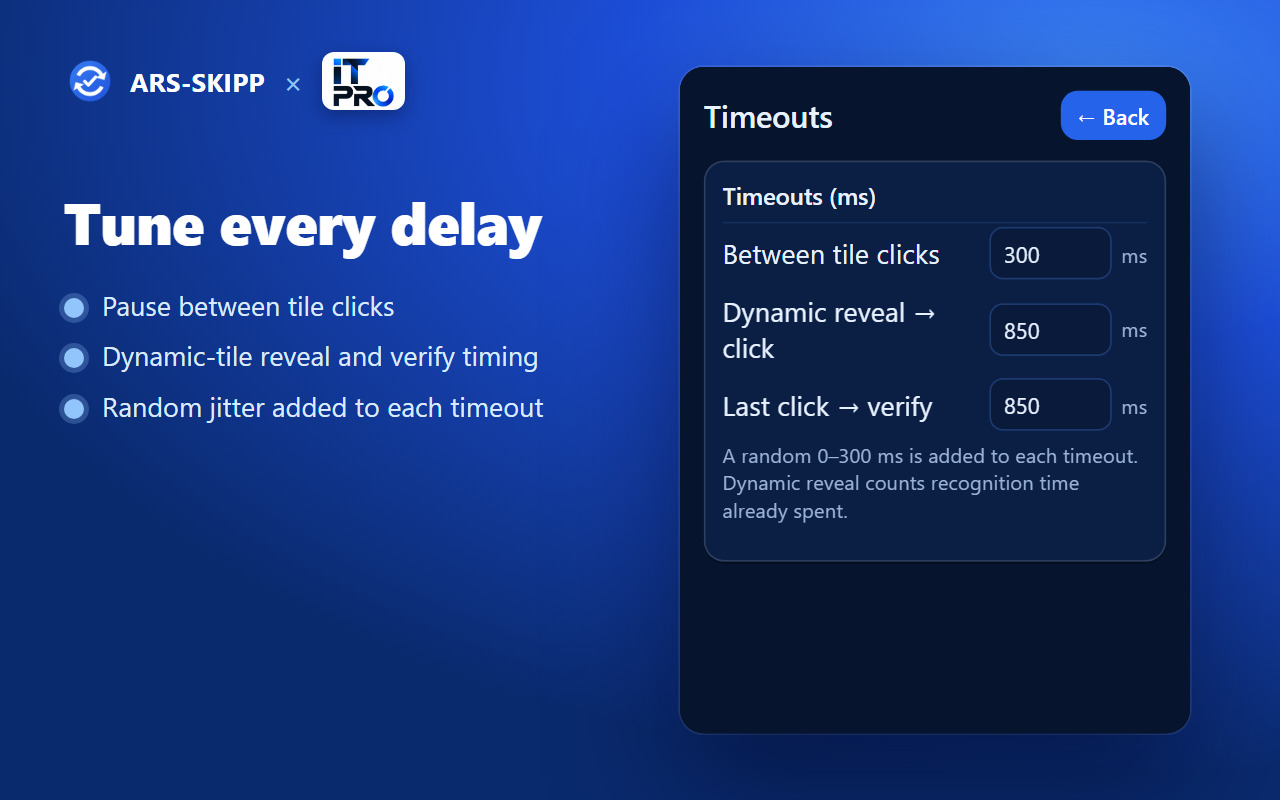
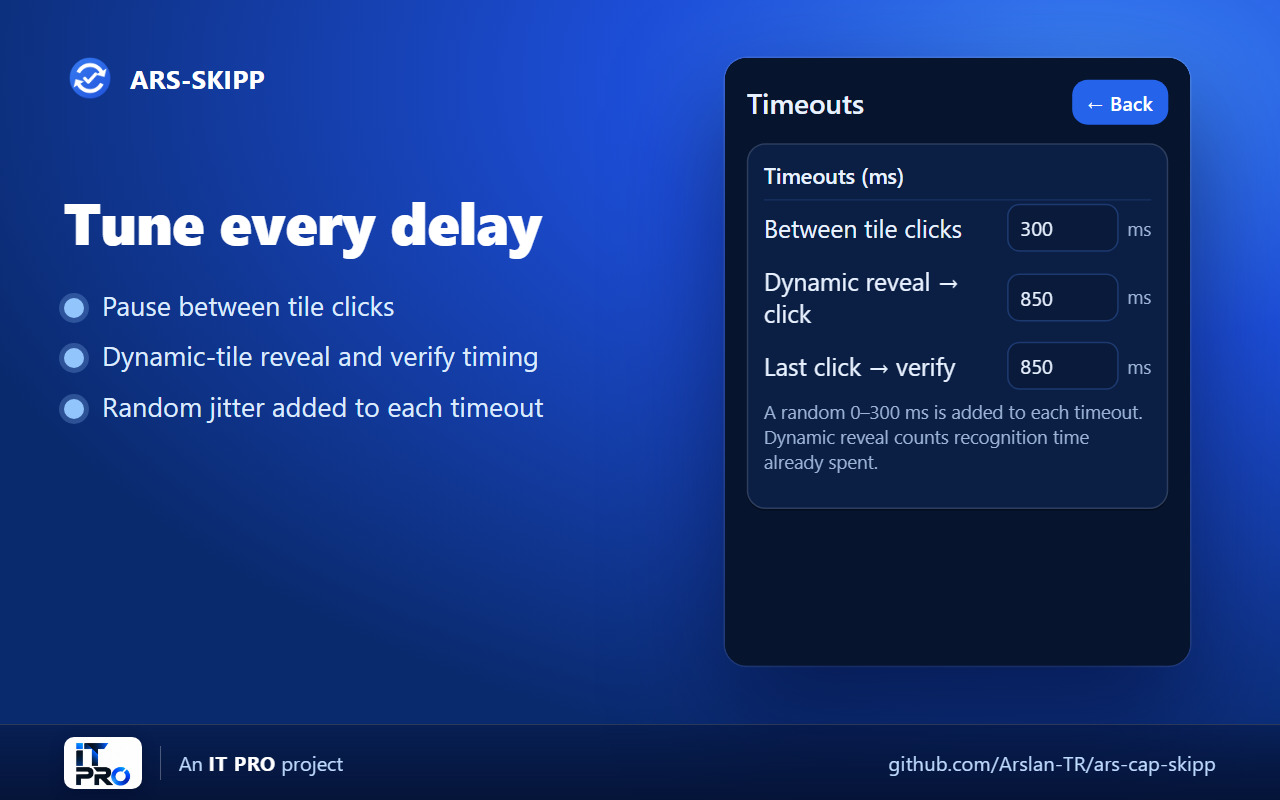
Store visuals: IT PRO brand bar, fix promo tile layout

Changed region(s): [[0.0, 0.0625, 1.0, 1.0], [0.25, 0.0625, 0.3438, 0.1562], [0.0312, 0.0625, 0.2188, 0.125]]

diff --git a/docs/store/src/slide.html b/docs/store/src/slide.html
@@ -10,11 +10,18 @@
   body { background: radial-gradient(1200px 700px at 85% 10%, #3b82f6 0%, #1d4ed8 38%, #0a2a6e 100%); color: #fff; position: relative; }
   .brand { position: absolute; left: 64px; top: 52px; display: flex; align-items: center; gap: 14px; font-weight: 700; font-size: 26px; letter-spacing: .3px; }
   .brand img { width: 52px; height: 52px; }
-  .brand .x { font-weight: 400; color: #93c5fd; font-size: 30px; margin: 0 4px; }
-  .brand .partner { background: #fefefe; border-radius: 12px; padding: 3px 8px; display: flex; box-shadow: 0 6px 18px rgba(2,10,40,.35); }
-  .brand .partner img { width: auto; height: 52px; }
-  .corner { position: absolute; left: 80px; bottom: 36px; background: #fefefe; border-radius: 12px; padding: 4px 10px; display: flex; box-shadow: 0 6px 18px rgba(2,10,40,.35); }
-  .corner img { height: 56px; width: auto; }
+  .bar { position: absolute; left: 0; right: 0; bottom: 0; height: 76px; display: flex; align-items: center; gap: 18px; padding: 0 64px; font-size: 20px; color: #bfdbfe; background: linear-gradient(180deg, rgba(4,12,36,.35), rgba(4,12,36,.72)); border-top: 1px solid rgba(255,255,255,.16); }
+  .bar .chip { background: #fefefe; border-radius: 10px; padding: 3px 9px; display: flex; box-shadow: 0 4px 14px rgba(2,10,40,.35); }
+  .bar .chip img { height: 46px; width: auto; }
+  .bar .sep { width: 1px; height: 34px; background: rgba(255,255,255,.28); }
+  .bar b { color: #fff; letter-spacing: .6px; }
+  .bar .url { margin-left: auto; letter-spacing: .2px; }
+  .bar.wide { height: 68px; padding: 0 80px; }
+  .bar.wide .chip img { height: 42px; }
+  .bar.small { height: 44px; padding: 0 20px; gap: 10px; font-size: 13px; }
+  .bar.small .chip { padding: 2px 6px; border-radius: 7px; }
+  .bar.small .chip img { height: 30px; }
+  .bar.small .sep { height: 22px; }
   .copy { position: absolute; left: 64px; top: 190px; width: 600px; }
   .copy h1 { font-size: 58px; line-height: 1.08; font-weight: 800; letter-spacing: -.5px; }
   .copy ul { list-style: none; padding: 0; margin-top: 34px; }
@@ -27,10 +34,11 @@
   .step .n { width: 56px; height: 56px; border-radius: 50%; background: var(--blue); display: grid; place-items: center; font-size: 28px; font-weight: 800; margin-bottom: 22px; box-shadow: 0 0 0 6px rgba(147,197,253,.25); }
   .step h3 { font-size: 31px; margin-bottom: 12px; }
   .step p { font-size: 23px; line-height: 1.4; color: #dbeafe; }
-  .foot { position: absolute; left: 64px; right: 64px; bottom: 56px; font-size: 25px; color: #bfdbfe; }
+  .foot { position: absolute; left: 64px; right: 64px; bottom: 112px; font-size: 25px; color: #bfdbfe; }
   .center-title { position: absolute; left: 64px; top: 130px; font-size: 54px; font-weight: 800; letter-spacing: -.5px; }
   .promo { position: absolute; inset: 0; display: flex; align-items: center; gap: 20px; padding: 0 28px; }
   .promo img { width: 104px; height: 104px; flex: none; filter: drop-shadow(0 10px 20px rgba(2,10,40,.45)); }
+  .promo > div { flex: 1; min-width: 0; }
   .promo h2 { font-size: 36px; line-height: 1.05; font-weight: 800; letter-spacing: -.3px; }
   .promo p { font-size: 19px; line-height: 1.3; color: #dbeafe; margin-top: 10px; }
   .marq { gap: 50px; padding-left: 80px; }
@@ -45,15 +53,18 @@
   const n = q.get('n');
   // the capture window is taller than the image; pin the layout to the image height
   document.documentElement.style.height = document.body.style.height = (q.get('h') || 800) + 'px';
-  const brand = '<div class="brand"><img src="icon128.png" alt="">ARS-SKIPP<span class="x">&times;</span><span class="partner"><img src="itpro-logo.png" alt="IT PRO"></span></div>';
+  // headless Chrome enforces a minimum window width, so pin the layout width too
+  document.body.style.width = (q.get('w') || 1280) + 'px';
+  const brand = '<div class="brand"><img src="icon128.png" alt="">ARS-SKIPP</div>';
+  const bar = (cls, url) => `<div class="bar ${cls}"><span class="chip"><img src="itpro-logo.png" alt="IT PRO"></span><span class="sep"></span><span>An <b>IT PRO</b> project</span>${url ? '<span class="url">github.com/Arslan-TR/ars-cap-skipp</span>' : ''}</div>`;
   const shot = (view, h, scale, left, top) =>
     `<div class="phone" style="transform:scale(${scale});left:${left}px;top:${top}px"><iframe src="/extension/popup.html#${view}" style="height:${h}px"></iframe></div>`;
   const captcha = (left, top, scale) =>
     `<img src="captcha-demo.png" alt="" style="position:absolute;left:${left}px;top:${top}px;width:${402 * scale}px;border-radius:6px;box-shadow:0 30px 70px rgba(2,10,40,.55),0 0 0 1px rgba(255,255,255,.2)">`;
-  const side = (view) => shot(view, 392, 1.7, 1280 - 90 - 300 * 1.7, (800 - 392 * 1.7) / 2);
+  const side = (view) => shot(view, 392, 1.55, 1280 - 90 - 300 * 1.55, (724 - 392 * 1.55) / 2);
   const slides = {
     '1': brand + '<div class="copy"><h1>Solves image captchas on your device</h1><ul><li>Picks the matching tiles for you</li><li>Presses Verify automatically</li><li>Free: no account, no API key</li></ul></div>'
-      + captcha(650, 90, 1.0) + shot('main', 392, 0.85, 1015, 430),
+      + captcha(650, 90, 1.0) + shot('main', 392, 0.85, 1015, 372),
     '2': brand + '<div class="copy"><h1>Simple controls</h1><ul><li>Master switch for the solver</li><li>Auto-click and image-solving toggles</li><li>Nothing to configure to get started</li></ul></div>' + side('main'),
     '3': brand + '<div class="copy"><h1>Tune every delay</h1><ul><li>Pause between tile clicks</li><li>Dynamic-tile reveal and verify timing</li><li>Random jitter added to each timeout</li></ul></div>' + side('timeouts'),
     '4': brand + '<div class="copy"><h1>Private by default</h1><ul><li>Reports are off until you turn them on</li><li>Solving never needs a server</li><li>Turn reports on or off any time</li></ul></div>' + side('reports'),
@@ -62,11 +73,12 @@
       + '<div class="step"><div class="n">2</div><h3>On-device AI</h3><p>Unknown images go to ONNX neural networks running locally in your browser on the CPU.</p></div>'
       + '<div class="step"><div class="n">3</div><h3>Click and verify</h3><p>Matching tiles are clicked with configurable, slightly randomized delays, then Verify.</p></div></div>'
       + '<div class="foot">Solving runs entirely in your browser. Nothing is uploaded unless you enable Reports.</div>',
-    'promo': '<div class="promo"><img src="icon128.png" alt=""><div><h2>ARS-SKIPP</h2><p>AI captcha image solver that runs on your device</p></div></div>',
-    'marquee': '<div class="promo marq"><img src="icon128.png" alt=""><div><h2>ARS-SKIPP</h2><p>Free AI captcha image solver. Runs on your device, no account or API key.</p></div></div>'
-      + captcha(1040, 50, 0.8) + '<div class="corner"><img src="itpro-logo.png" alt="IT PRO"></div>'
+    'promo': '<div class="promo" style="bottom:44px"><img src="icon128.png" alt=""><div><h2>ARS-SKIPP</h2><p>AI captcha image solver that runs on your device</p></div></div>',
+    'marquee': '<div class="promo marq" style="bottom:68px"><img src="icon128.png" alt=""><div><h2>ARS-SKIPP</h2><p>Free AI captcha image solver. Runs on your device, no account or API key.</p></div></div>'
+      + captcha(1050, 36, 0.74)
   };
-  document.body.insertAdjacentHTML('beforeend', slides[n] || '');
+  const barFor = { '1': bar('', true), '2': bar('', true), '3': bar('', true), '4': bar('', true), '5': bar('', true), 'promo': bar('small', false), 'marquee': bar('wide', true) };
+  document.body.insertAdjacentHTML('beforeend', (slides[n] || '') + (barFor[n] || ''));
 </script>
 </body>
 </html>

diff --git a/scripts/render_store_assets.py b/scripts/render_store_assets.py
@@ -70,7 +70,7 @@ def main():
             subprocess.run(
                 [CHROME, "--headless=new", "--disable-gpu", "--hide-scrollbars", "--force-device-scale-factor=1",
                  f"--user-data-dir={tmp}/profile", f"--window-size={w},{h + 120}", "--virtual-time-budget=4000",
-                 f"--screenshot={png}", f"http://127.0.0.1:{port}/docs/store/src/slide.html?{query}&h={h}"],
+                 f"--screenshot={png}", f"http://127.0.0.1:{port}/docs/store/src/slide.html?{query}&h={h}&w={w}"],
                 check=True, capture_output=True, timeout=120)
             im = Image.open(png).convert("RGB").crop((0, 0, w, h))  # RGB: no alpha channel
             im.save(OUT / name, "JPEG", quality=92, subsampling=0)
